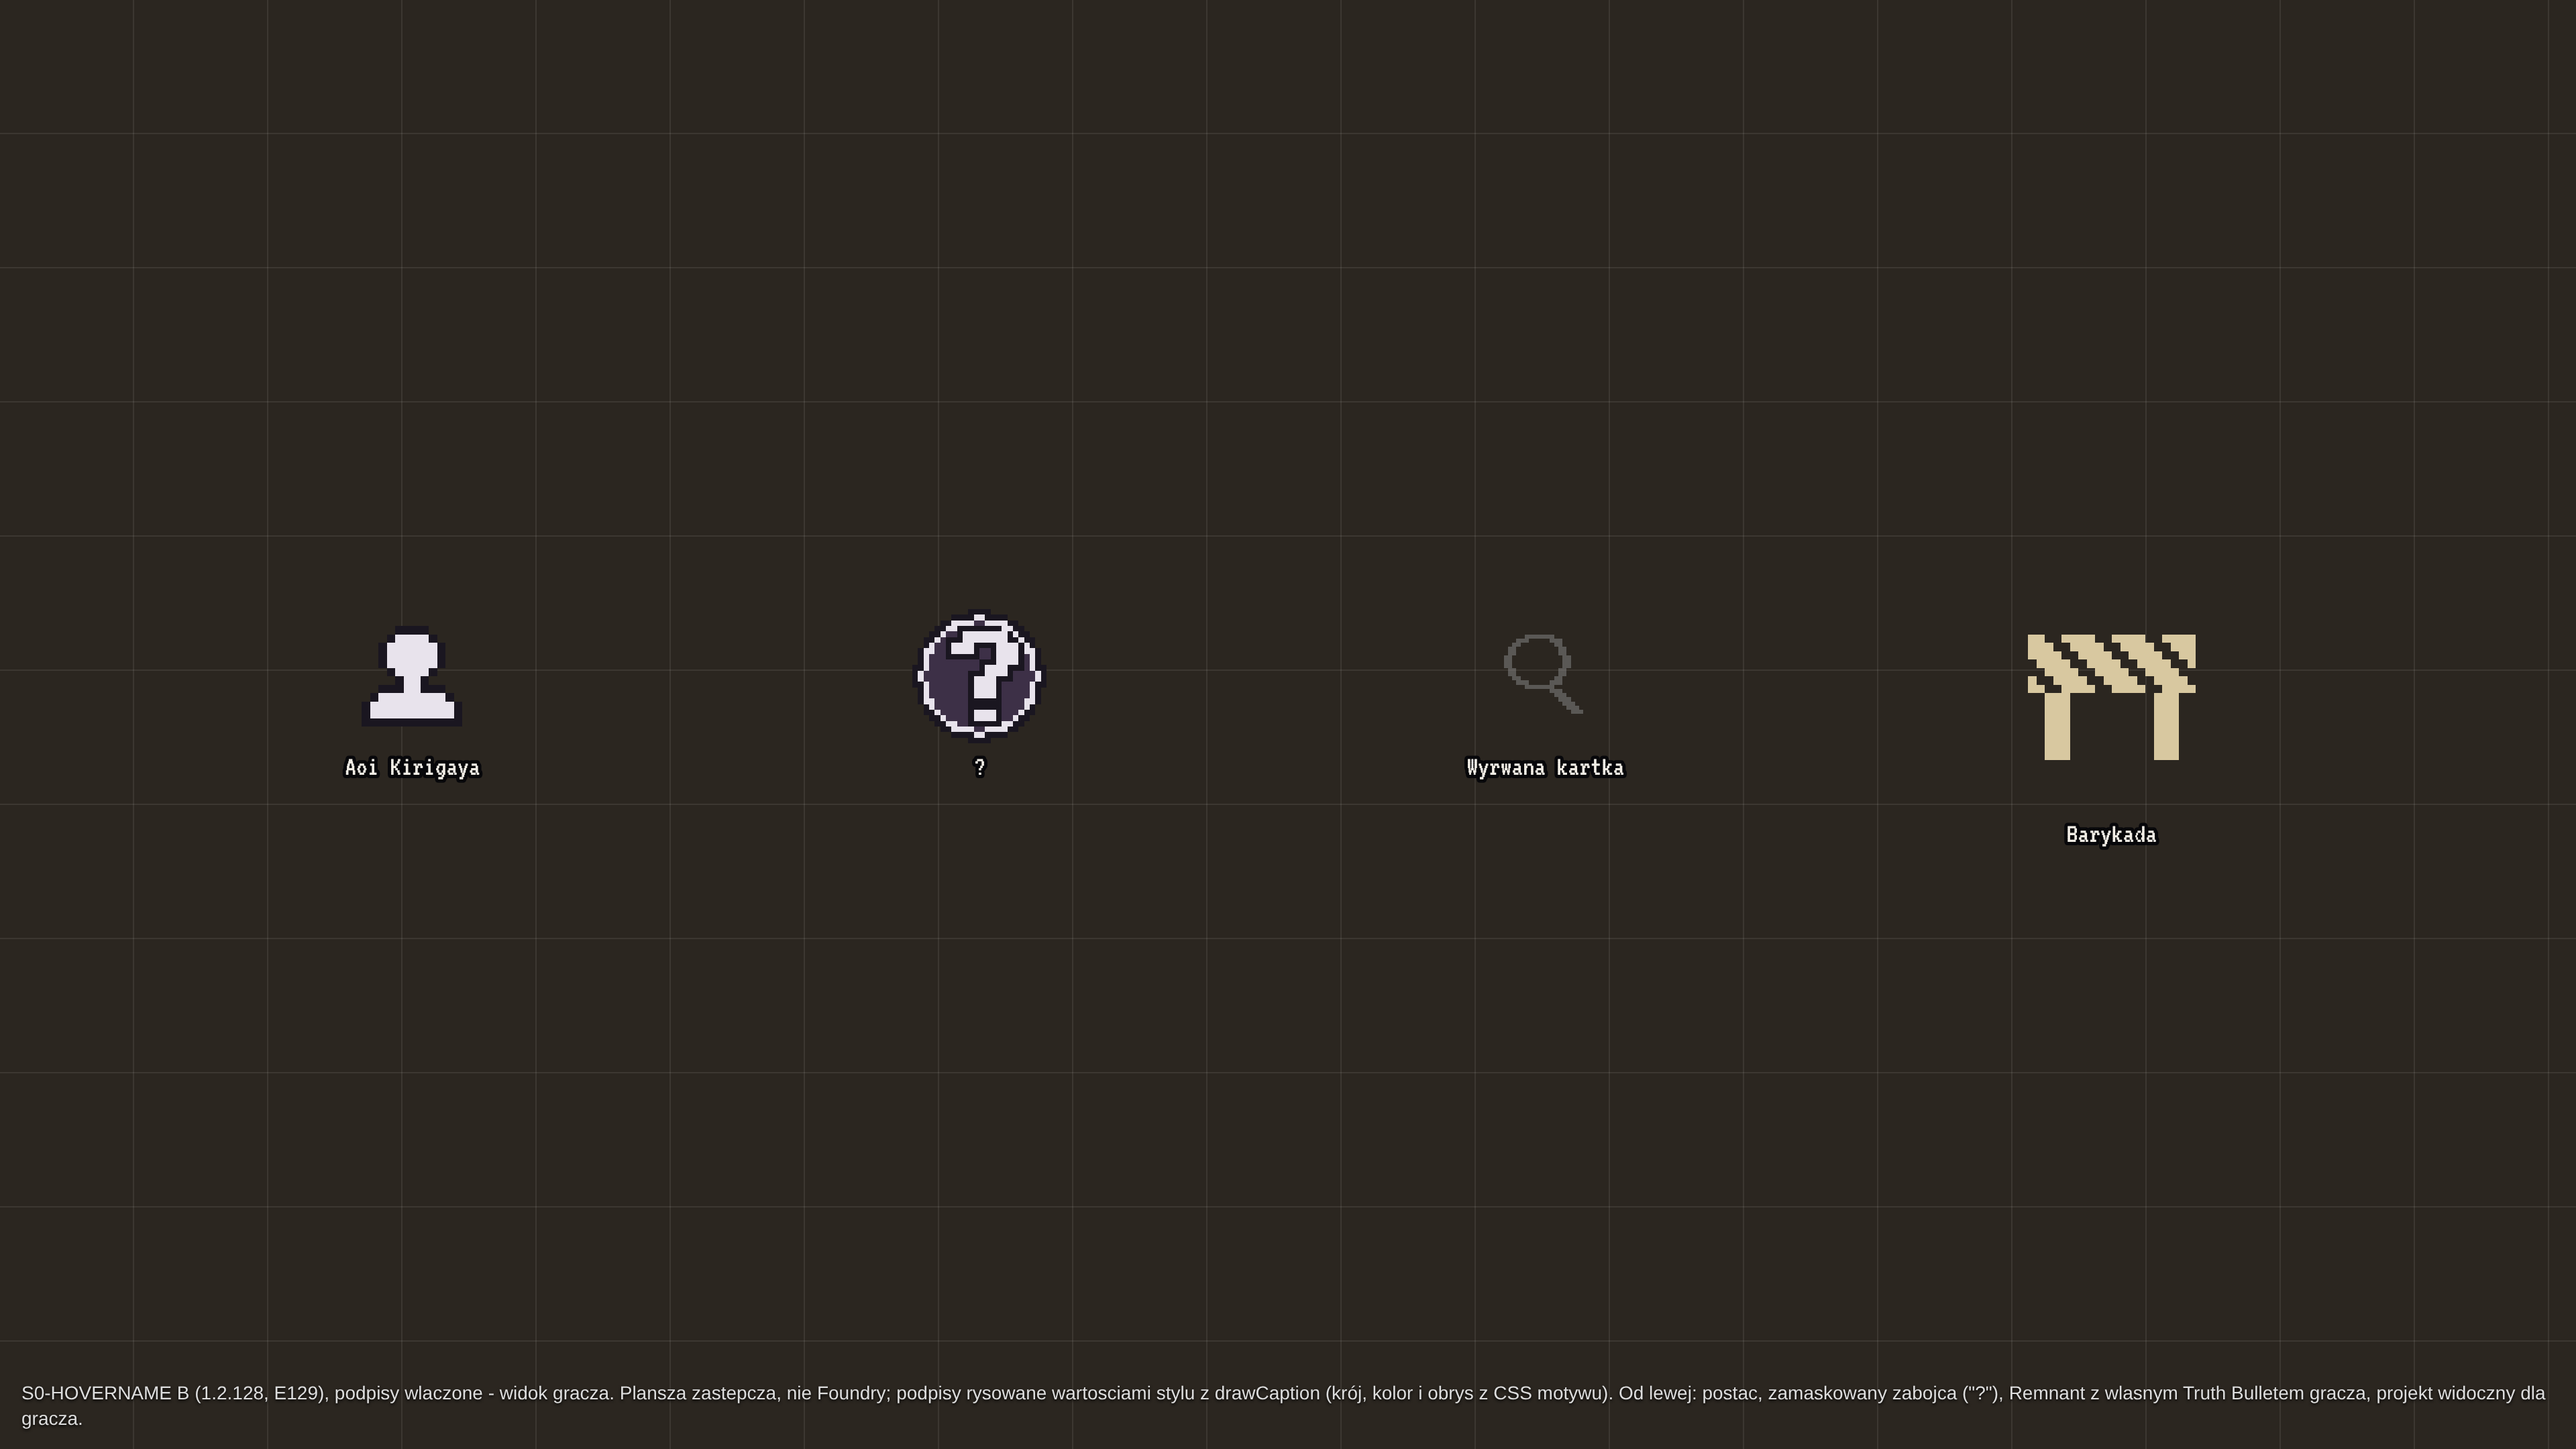
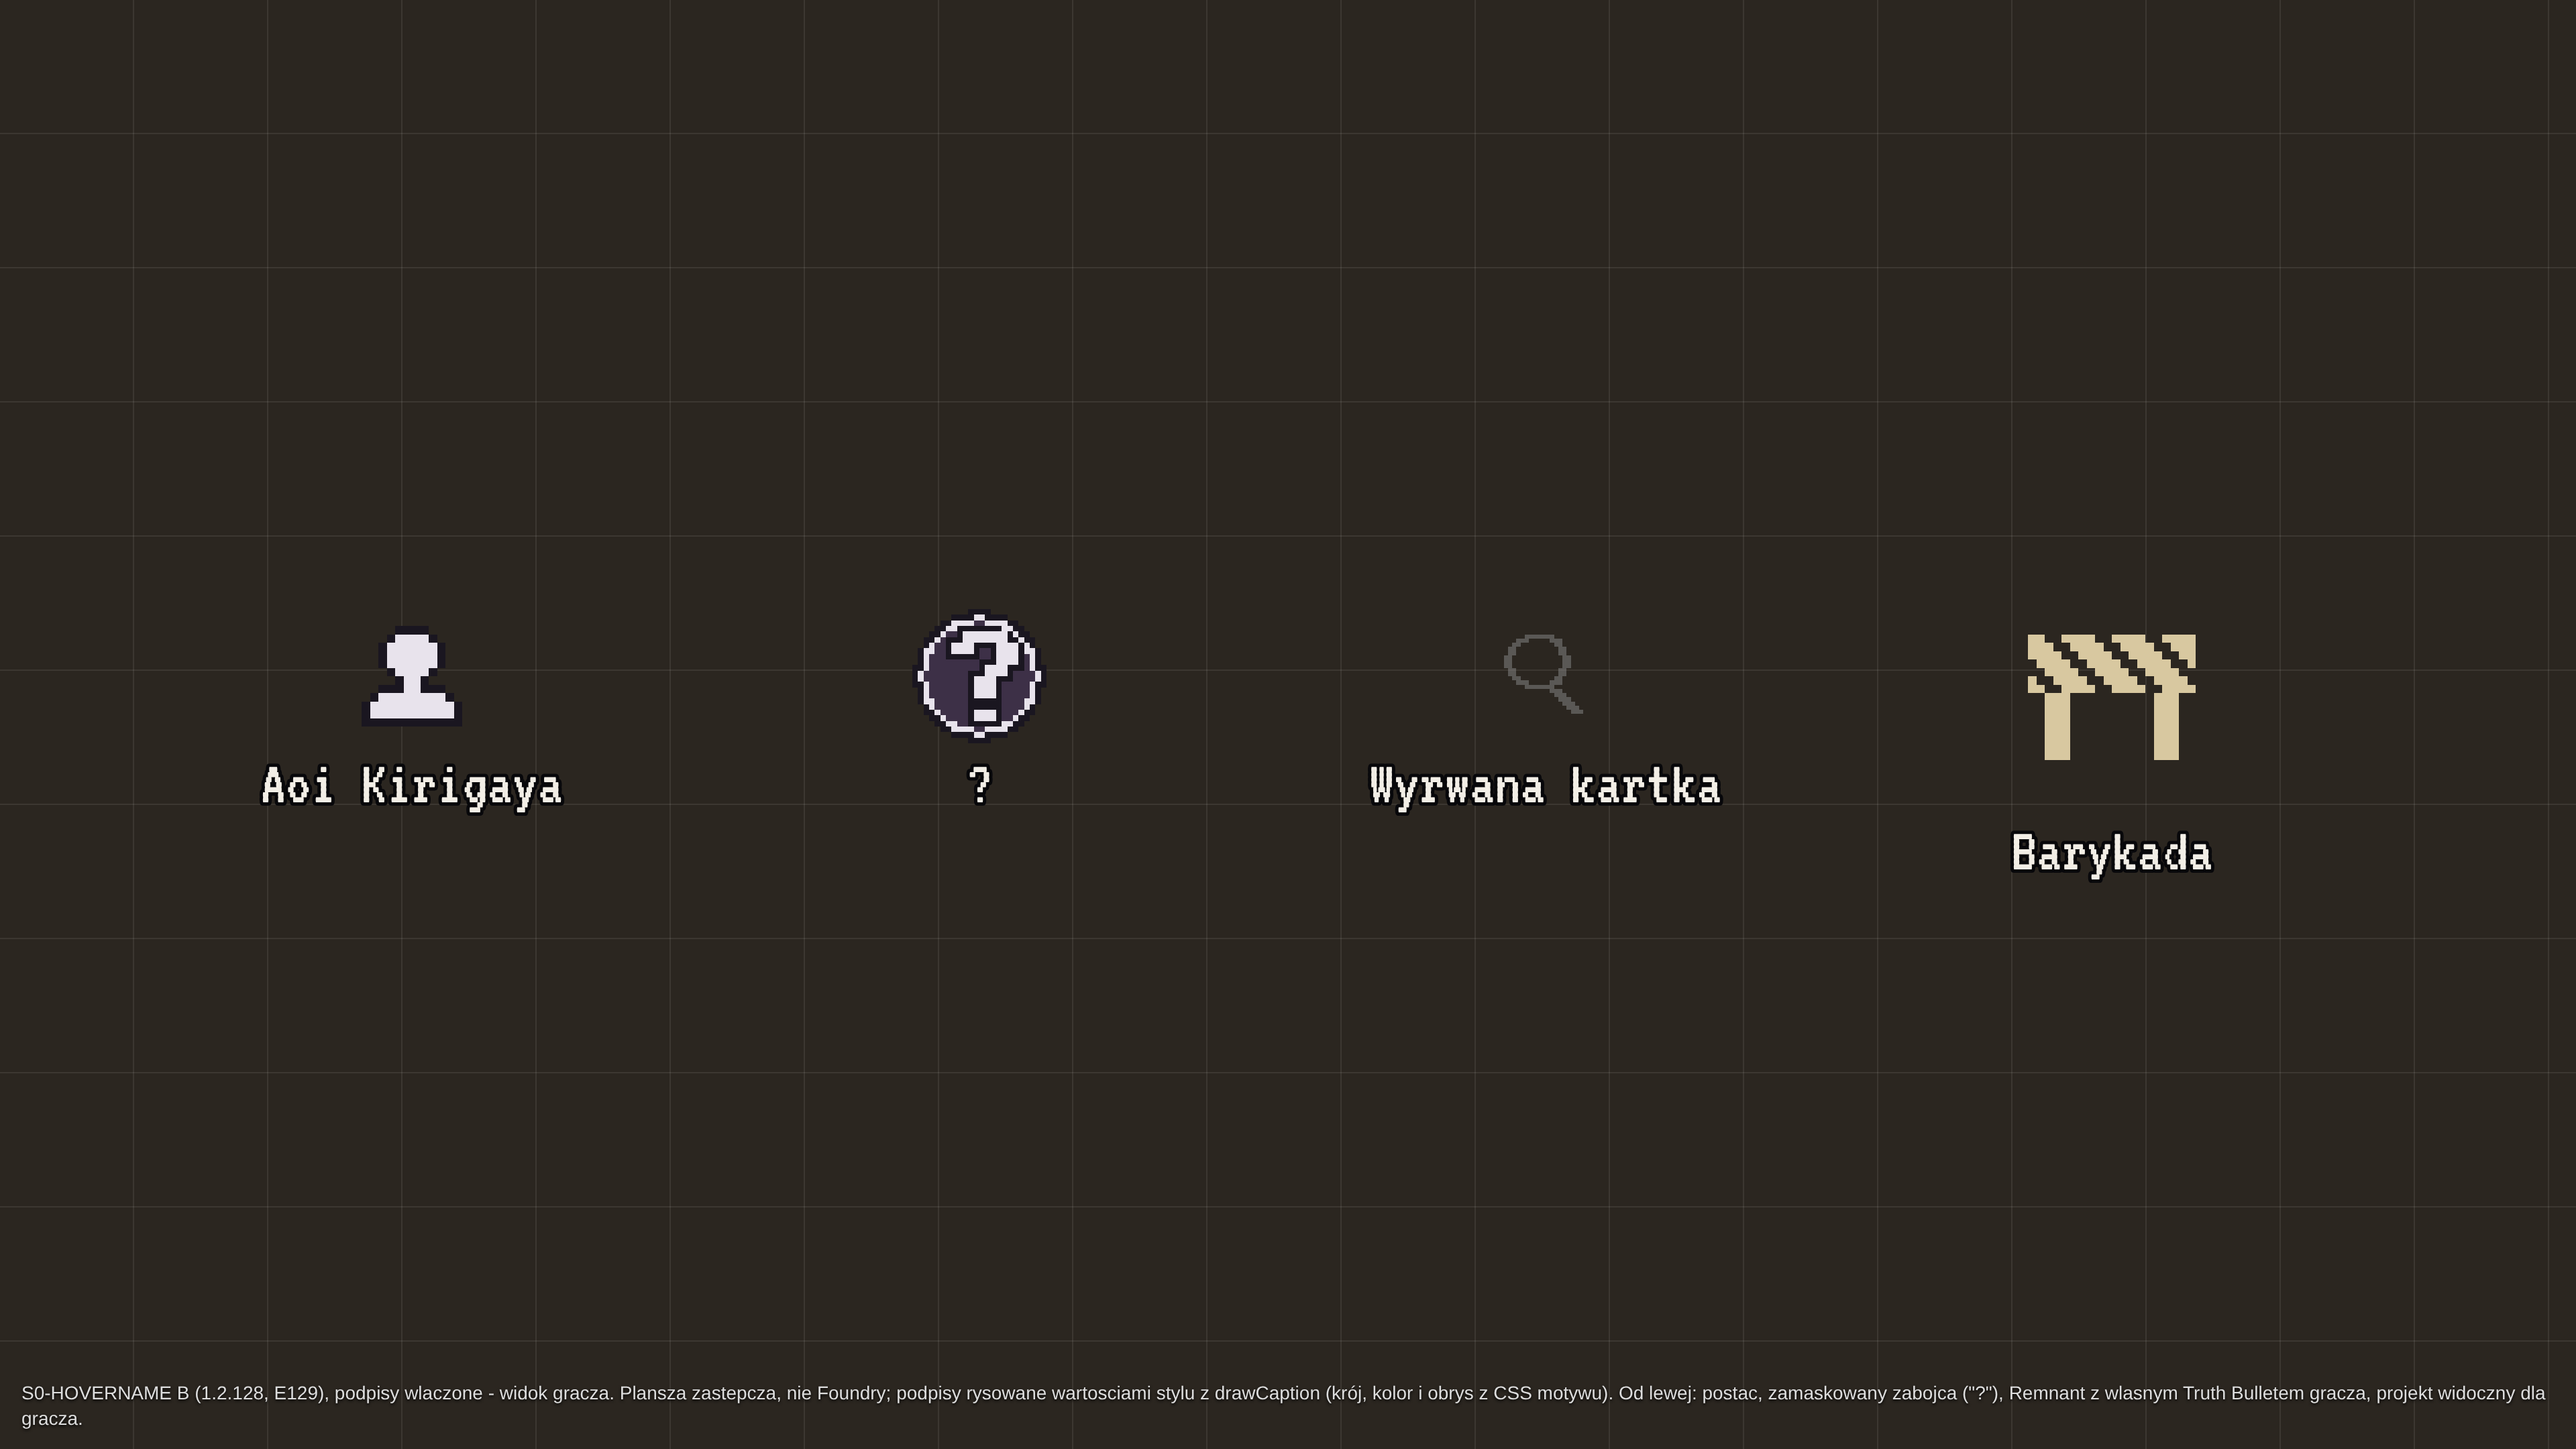
E129 S0-HOVERNAME: a caption's size per theme, so the glass's reads as large as Legacy's [skip ci]
The coordinator's default (23.11.2026), told to the owner: under Stained
Glass the caption at 1920x1080 and 100% reads at least as large as
Legacy's. config.mjs CAPTION_FACE: Legacy 1, the glass 2.2, multiplied
into the caption's size after the interface scale (hover-name.mjs
captionStyle `size`, in the caption's key). Chosen by measuring "Aoi
Kirigaya" in Chromium: Legacy's DRPG Pixel at 25 px is 300 px wide with an
x-height of 19; the glass's VT323 was 21 px, 101 wide, x-height 9; at 2.2
it is 47 px, 226 wide, x-height 19. The scale still grows it: 42 px at
1366x768, grid 72, 125%.

R8875 adds the theme's size read off the body (1, 2.2), the glass's caption
at 0.85 (47 px over 5), and a redraw from size 1 to 2.2 at one scale.
Mutants G1 (the glass at 1), G2 (no size in the font), G3 (Legacy's size
for both) and G4 (no size in the key) killed. Shots:
caption-stained-pl-1920x1080 redrawn, caption-stained-pl-1366x768-ui125
added; the README gives the numbers.

Claude-Session: https://claude.ai/code/session_01QsWhUbiGMjnJomVPo94Rt7

diff --git a/docs/dev/owner129/map/caption-sheet.html b/docs/dev/owner129/map/caption-sheet.html
@@ -57,7 +57,9 @@ document.fonts.load(`16px ${face.family}`).then(() => toks.forEach((t, i) => {
   // The scale as hover-name.mjs `captionScale` reads it off the body.
   const glass = document.body.classList.contains("drpg-theme-stained-glass");
   const scale = parseFloat(document.body.style.getPropertyValue(glass ? "--drpg-type-scale" : "--drpg-legacy-scale")) || 1;
-  const fs = Math.round(Math.max(18, g * 0.25) * scale), sw = Math.max(1, Math.round(Math.max(4, g * 0.0625) * scale));
+  // The theme's own size, config.mjs CAPTION_FACE (Legacy 1, the glass 2.2).
+  const faceSize = glass ? 2.2 : 1;
+  const fs = Math.round(Math.max(18, g * 0.25) * scale * faceSize), sw = Math.max(1, Math.round(Math.max(4, g * 0.0625) * scale));
   const c = document.createElement("canvas"), ctx = c.getContext("2d"), dpr = devicePixelRatio || 1;
   ctx.font = `${fs}px ${face.family}`; const tw = Math.ceil(ctx.measureText(t.name).width) + sw * 2, th = Math.ceil(fs * 1.3) + sw;
   c.width = tw * dpr; c.height = th * dpr; c.style.cssText = `position:absolute;width:${tw}px;height:${th}px;left:${x - tw / 2}px;top:${y + size + Math.round(g * 0.04)}px`;

diff --git a/docs/dev/owner129/map/README.md b/docs/dev/owner129/map/README.md
@@ -44,3 +44,8 @@ v14 table was at hand. What a real table shows is the LIVE-129-MAP items in the 
   `caption-legacy-pl-1366x768-ui125.png` is the slider at 125%. Only the three caption files named below were redrawn
   at the new size: `caption-{stained,legacy}-pl-1920x1080.png` and that one; the other caption shots show the first
   size.
+- The theme's own size (config.mjs `CAPTION_FACE`, the coordinator's default of 23.11.2026: under the glass the caption
+  reads at least as large as Legacy's): Legacy 1, the glass 2.2. Measured on "Aoi Kirigaya" at 1920x1080 and 100%:
+  Legacy's DRPG Pixel at 25 px, 300 px wide, x-height 19; the glass's VT323 at 47 px, 226 px wide, x-height 19 (21 px,
+  101 wide and an x-height of 9 before). `caption-stained-pl-1920x1080.png` redrawn with it and
+  `caption-stained-pl-1366x768-ui125.png` added (42 px there: grid 72, the glass's factor 1.06 at 125%).
